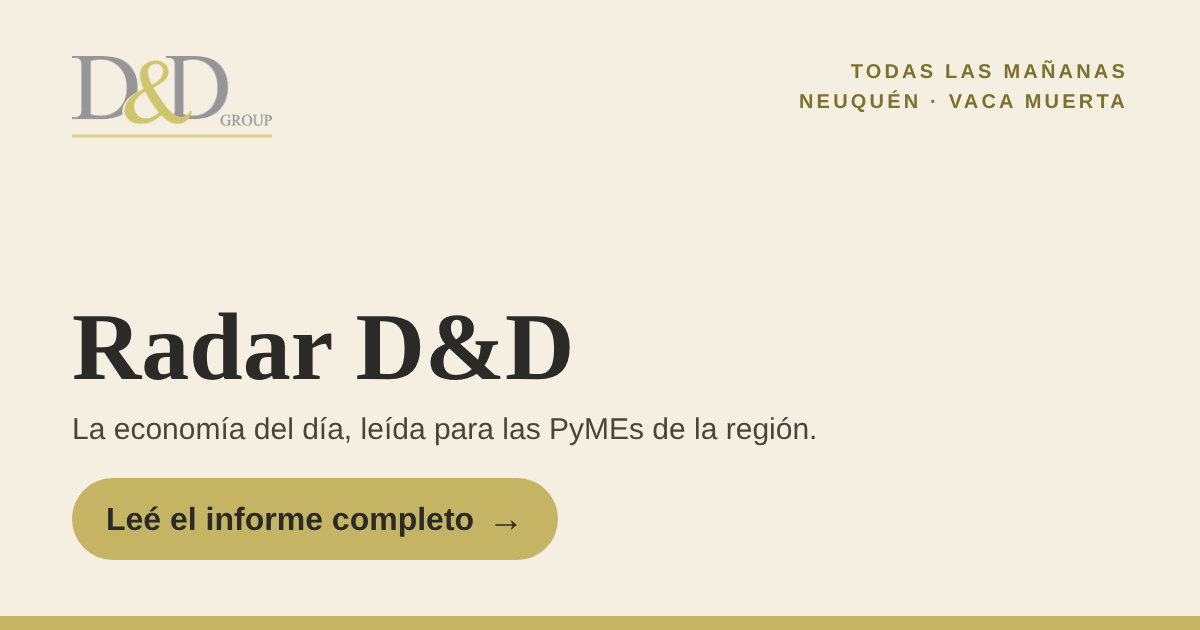
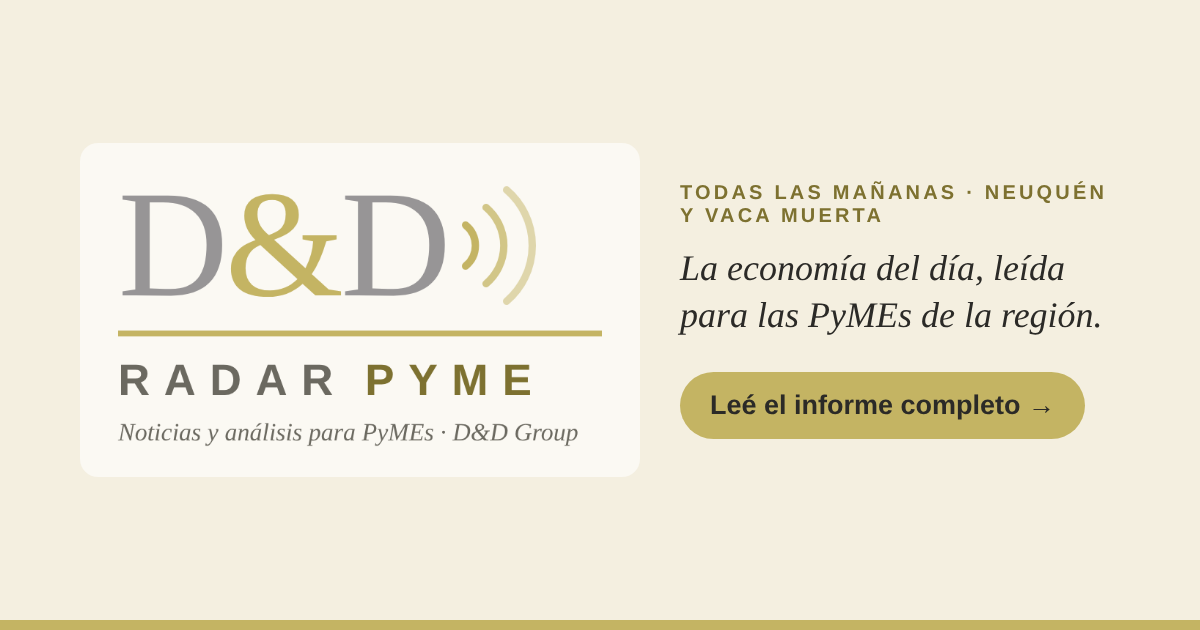
Radar Pyme · app instalable (PWA) y vista previa con el nuevo nombre
Claude-Session: https://claude.ai/code/session_013wad12tf1uPdxr2bVZSavz

diff --git a/index.html b/index.html
@@ -4,12 +4,18 @@
 <meta charset="utf-8">
 <meta name="viewport" content="width=device-width, initial-scale=1">
 <meta property="og:type" content="website">
-<meta property="og:title" content="Radar D&amp;D · Leé el informe completo">
+<meta property="og:title" content="Radar Pyme · Leé el informe completo">
 <meta property="og:description" content="La economía del día para las PyMEs de Neuquén y Vaca Muerta: dólar, tasas, inflación y las claves para tu empresa.">
 <meta property="og:url" content="https://monitor.dydgroupconsultores.com/">
 <meta property="og:image" content="https://monitor.dydgroupconsultores.com/og-radar.png">
 <meta property="og:image:width" content="1200"><meta property="og:image:height" content="630">
 <meta name="twitter:card" content="summary_large_image">
+<link rel="manifest" href="/manifest.webmanifest">
+<link rel="apple-touch-icon" href="/apple-touch-icon.png">
+<link rel="icon" type="image/png" href="/favicon-32.png">
+<meta name="theme-color" content="#F4EFE0">
+<meta name="apple-mobile-web-app-capable" content="yes">
+<meta name="apple-mobile-web-app-title" content="Radar Pyme">
 </head>
 <body>
 <title>Radar Pyme</title>
@@ -219,6 +225,14 @@ tr:last-child td{border-bottom:0}
 .pa-body .bajada{font-family:var(--f-display);font-style:italic;color:var(--muted);font-size:15px}
 .persp .ver-ant{display:inline-block;margin-top:6px;font-size:13px;font-weight:600;color:var(--gold);text-decoration:none}
 /* fin archivo columnas */
+/* App instalable */
+.app-bar{position:fixed;left:12px;right:12px;bottom:max(12px,env(safe-area-inset-bottom,0px));z-index:39;display:flex;align-items:center;gap:12px;max-width:560px;margin:0 auto;background:var(--surface);border:1px solid var(--line);border-left:4px solid var(--olive);border-radius:12px;padding:10px 12px;box-shadow:0 8px 24px rgba(60,50,20,.2)}
+.app-bar img{border-radius:9px;flex:none}
+.app-tx{flex:1;min-width:0;display:flex;flex-direction:column;font-size:13px;color:var(--muted);line-height:1.35}
+.app-tx strong{font-size:14.5px;color:var(--ink)}
+.app-ok{background:var(--olive);color:#2B2A27;border:0;border-radius:999px;font:700 14px var(--f-body);padding:9px 16px;cursor:pointer;white-space:nowrap}
+.app-x{background:none;border:0;font-size:24px;line-height:1;color:var(--muted);cursor:pointer;padding:0 2px}
+/* fin app */
 /* Noticias */
 .news{display:grid;grid-template-columns:repeat(auto-fit,minmax(300px,1fr));gap:20px 28px}
 article{min-width:0}
@@ -253,6 +267,39 @@ footer{margin-top:40px;font-size:12px;color:var(--muted);border-top:1px solid va
 <p class="note">Indicadores al cierre del jueves 5/11, con variaciones contra el miércoles 4/11. Por el Día del Bancario (viernes 6) y los feriados del lunes 9 y martes 10 por la visita del papa León XIV, la próxima rueda cambiaria será el miércoles 11/11. Diferencias entre medios: el blue cerró en $1.555 según la nota de cierre de Ámbito y en $1.550 en su resumen de cotizaciones; el MEP, en $1.579,5 (Ámbito) o $1.580,8 (Diario Neuquino), y el contado con liquidación, en $1.671,4 o $1.665,2. Diario Neuquino informa el BNA en $1.470, un valor que no coincide con el resto de las fuentes ($1.570). El tablero usa los valores de Ámbito; la variación del mayorista se calcula contra $1.546, el cierre previo que informa Ámbito (la edición de la mañana mostraba $1.547,5).</p>
 <div class="wa-canal" id="canal-whatsapp"><span class="wa-ic"><svg viewBox="0 0 24 24" width="20" height="20" aria-hidden="true"><path fill="currentColor" d="M12 2a10 10 0 0 0-8.6 15.1L2 22l5-1.3A10 10 0 1 0 12 2Zm0 18.2a8.2 8.2 0 0 1-4.2-1.1l-.3-.2-3 .8.8-2.9-.2-.3A8.2 8.2 0 1 1 12 20.2Zm4.5-6.1c-.2-.1-1.5-.7-1.7-.8s-.4-.1-.6.1-.7.8-.8 1-.3.2-.5.1a6.7 6.7 0 0 1-3.3-2.9c-.3-.4.2-.4.7-1.3.1-.2 0-.3 0-.4l-.8-1.8c-.2-.5-.4-.4-.6-.4h-.5a1 1 0 0 0-.7.3 3 3 0 0 0-.9 2.2 5.2 5.2 0 0 0 1.1 2.8 11.9 11.9 0 0 0 4.6 4c1.7.7 2.4.8 3.2.7a2.8 2.8 0 0 0 1.8-1.3 2.3 2.3 0 0 0 .2-1.3c-.1-.1-.3-.2-.5-.3Z"/></svg></span><span class="wa-tx"><strong>Recibí el Radar Pyme todas las mañanas en WhatsApp.</strong> Sumate gratis al canal: sin grupos y sin que nadie vea tu número.</span><a class="wa-bt" href="https://whatsapp.com/channel/0029Vb8xRrL1Hsq52swkN31y" target="_blank" rel="noopener">Seguir el canal</a></div>
 
+<!-- APP RADAR PYME -->
+<div class="app-bar" id="app-bar" hidden>
+  <img src="/icon-192.png" alt="" width="40" height="40">
+  <div class="app-tx"><strong>Instalá Radar Pyme en tu celular</strong><span class="app-sub">Abrilo con un toque, como una app, y se actualiza todos los días.</span></div>
+  <button type="button" class="app-ok">Instalar</button>
+  <button type="button" class="app-x" aria-label="Cerrar">×</button>
+</div>
+<script>
+(function(){
+  if(location.hostname!=='monitor.dydgroupconsultores.com') return;
+  var h=document.head;
+  function add(tag,attrs){var q=tag+Object.keys(attrs).filter(function(k){return k==='rel'||k==='name';}).map(function(k){return '['+k+'="'+attrs[k]+'"]';}).join('');if(h.querySelector(q))return;var e=document.createElement(tag);for(var k in attrs)e.setAttribute(k,attrs[k]);h.appendChild(e);}
+  add('link',{rel:'manifest',href:'/manifest.webmanifest'});
+  add('link',{rel:'apple-touch-icon',href:'/apple-touch-icon.png'});
+  add('link',{rel:'icon',href:'/favicon-32.png',type:'image/png'});
+  add('meta',{name:'theme-color',content:'#F4EFE0'});
+  add('meta',{name:'apple-mobile-web-app-capable',content:'yes'});
+  add('meta',{name:'apple-mobile-web-app-title',content:'Radar Pyme'});
+  if('serviceWorker' in navigator) navigator.serviceWorker.register('/sw.js').catch(function(){});
+  var bar=document.getElementById('app-bar'); if(!bar) return;
+  var instalada=window.matchMedia('(display-mode: standalone)').matches||navigator.standalone;
+  var cerrado=false; try{cerrado=localStorage.getItem('radarAppBar')==='no';}catch(e){}
+  if(instalada||cerrado) return;
+  var ok=bar.querySelector('.app-ok'), diferido=null;
+  bar.querySelector('.app-x').addEventListener('click',function(){bar.hidden=true;try{localStorage.setItem('radarAppBar','no');}catch(e){}});
+  window.addEventListener('beforeinstallprompt',function(e){e.preventDefault();diferido=e;bar.hidden=false;});
+  ok.addEventListener('click',function(){if(diferido){diferido.prompt();diferido.userChoice.then(function(){bar.hidden=true;});diferido=null;}});
+  var ios=/iphone|ipad|ipod/i.test(navigator.userAgent);
+  if(ios){bar.querySelector('.app-sub').innerHTML='Tocá <b>Compartir</b> <span aria-hidden="true">⎙</span> y después <b>“Agregar a inicio”</b>.';ok.hidden=true;bar.hidden=false;}
+  window.addEventListener('appinstalled',function(){bar.hidden=true;});
+})();
+</script>
+<!-- FIN APP RADAR PYME -->
 <nav class="secnav" id="secnav" aria-label="Secciones del Radar">
   <button type="button" class="sn-btn" aria-expanded="false" aria-controls="sn-panel"><span class="sn-ic" aria-hidden="true"><i></i><i></i><i></i></span><span class="sn-txt">Secciones</span></button>
   <div class="sn-velo" hidden></div>

diff --git a/sw.js b/sw.js
@@ -1,0 +1,15 @@
+// Radar Pyme · service worker: siempre intenta traer la edición del día; sin señal muestra la última guardada.
+const CACHE = 'radar-pyme-v1';
+const BASE = ['/', '/manifest.webmanifest', '/icon-192.png', '/icon-512.png', '/apple-touch-icon.png'];
+self.addEventListener('install', e => { e.waitUntil(caches.open(CACHE).then(c => c.addAll(BASE)).then(() => self.skipWaiting())); });
+self.addEventListener('activate', e => { e.waitUntil(caches.keys().then(ks => Promise.all(ks.filter(k => k !== CACHE).map(k => caches.delete(k)))).then(() => self.clients.claim())); });
+self.addEventListener('fetch', e => {
+  const req = e.request;
+  if (req.method !== 'GET' || new URL(req.url).origin !== location.origin) return;
+  if (req.mode === 'navigate') {
+    e.respondWith(fetch(req, {cache: 'no-store'}).then(r => { const copy = r.clone(); caches.open(CACHE).then(c => c.put('/', copy)); return r; })
+      .catch(() => caches.match('/')));
+    return;
+  }
+  e.respondWith(caches.match(req).then(hit => hit || fetch(req).then(r => { const copy = r.clone(); caches.open(CACHE).then(c => c.put(req, copy)); return r; })));
+});
